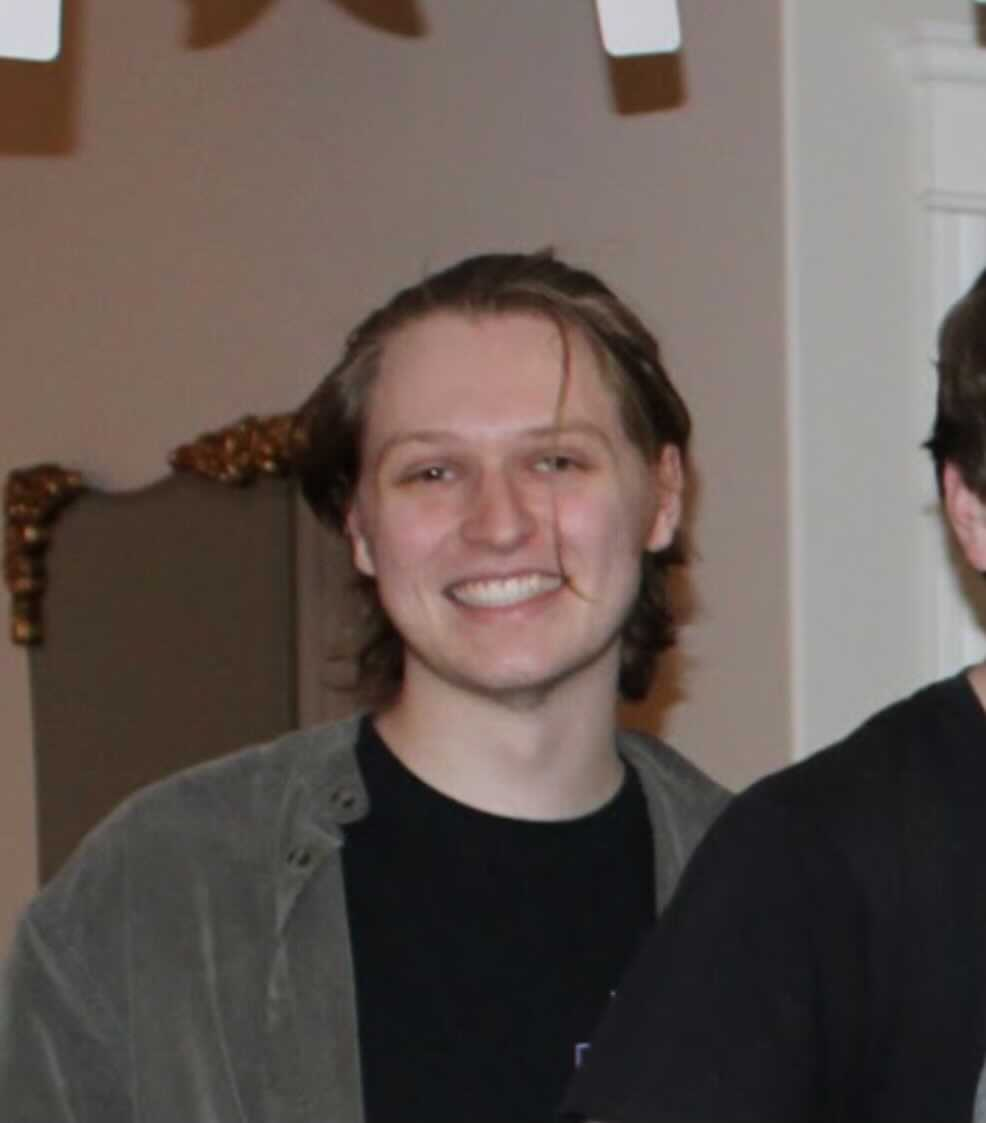
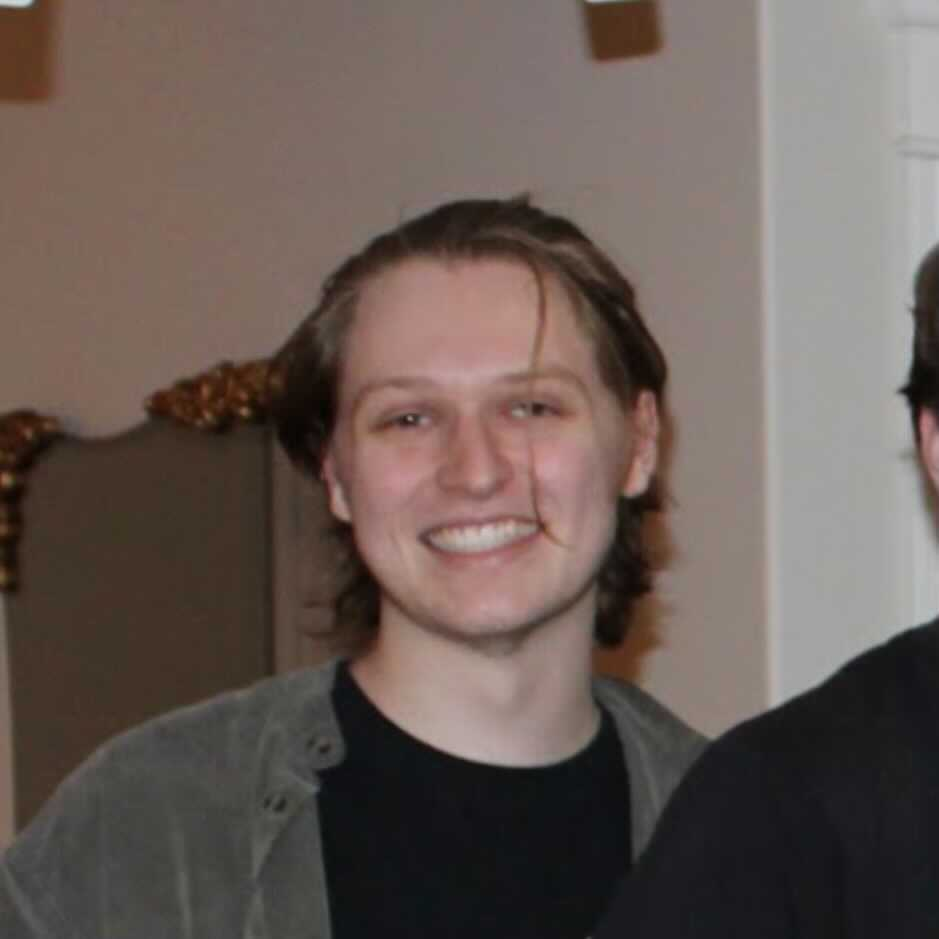
added images and started media queries

diff --git a/styles/styles.css b/styles/styles.css
@@ -282,7 +282,10 @@ header {
   -webkit-box-align: center;
       -ms-flex-align: center;
           align-items: center;
-  padding-top: 275px;
+  -webkit-box-pack: center;
+      -ms-flex-pack: center;
+          justify-content: center;
+  padding-top: 125px;
   margin: 0;
 }
 .title-content .title-text h1 {
@@ -293,6 +296,10 @@ header {
 .title-content .title-text p {
   margin: 0;
   font-size: 1.8rem;
+}
+.title-content .title-img img {
+  width: 400px;
+  margin: 0;
 }
 
 html {
@@ -334,6 +341,11 @@ a {
   font-family: "Nunito", sans-serif;
   font-size: 4rem;
   margin-bottom: 0;
+}
+.about-container .about-img img {
+  border-radius: 50%;
+  width: 200px;
+  margin-top: 55px;
 }
 
 .skills-section {
@@ -515,7 +527,7 @@ a {
   border: none;
   margin-top: 20px;
   padding: 10px 40px 10px 40px;
-  width: 20%;
+  width: 160px;
   border: 2px solid #A5AE9E;
 }
 .contact-container .contact-forms button:hover {
@@ -535,4 +547,10 @@ footer p {
   color: white;
   font-weight: bold;
   text-transform: uppercase;
+}
+
+@media (max-width: 1168px) {
+  .projects-buttons {
+    font-size: 18px;
+  }
 }

diff --git a/index.html b/index.html
@@ -33,7 +33,7 @@
           <p>front end web developer</p>
         </div><!-- end of title text -->
         <div class="title-img">
-          <img src="" alt="picture of me i guess?">
+          <img src="./assets/gangstas-christmas(1).png" alt="picture of me i guess?">
         </div><!-- end of title img -->
       </div><!-- end of title content -->
     </div><!-- end of wrapper -->
@@ -47,7 +47,7 @@
       <div class="wrapper">
         <div class="about-container">
           <div class="about-img">
-            <img src="" alt="headshot??">
+            <img src="./assets/pp.jpg" alt="headshot??">
           </div> <!-- end of about img -->
           <div class="about-text">
             <h2>about me</h2>
@@ -187,12 +187,14 @@
       </div><!-- end of wrapper -->
     </section><!-- end of contact section -->
 
-    <!-- Footer -->
-
-    <footer>
-      <p>Built in 2022 by Tyler George</p>
-    </footer>
 
   </main>
+
+  <!-- Footer -->
+  <footer>
+    <p>Built in 2022 by Tyler George</p>
+  </footer>
+
+  <script src="./app.js"></script>
 </body>
 </html>

diff --git a/app.js b/app.js
@@ -1,14 +1,20 @@
-
-const portfolio = {}
-
-
-
+// create namespace and init
+// create a function that uses the doc to select the submit button
+// create an event listener that appends a blank string over my input forms once clicked
 
 
-portfolio.formClear = () => {
 
+
+// This function that resets the field forms is from https://help.formspree.io/hc/en-us/articles/1500009404742-How-to-clear-a-form-after-submission and modified for my site.
+
+
+const portfolio = {};
+
+// WIP DOES NOT WORK HEHE
+portfolio.clearForm = () => {
+  const contactForm = document.querySelector('#contactForm');
+  window.onbeforeunload = () => {
+    contactForm.reset();
+  }
 }
 
-
-
-portfolio.init()

diff --git a/styles/sass/partials/_header.scss b/styles/sass/partials/_header.scss
@@ -40,7 +40,6 @@ header {
       &:hover {
         border: 2px solid white;
         background-color: variables.$main-colour;
-        
       }
     }
   }
@@ -49,7 +48,8 @@ header {
 .title-content {
   display: flex;
   align-items: center;
-  padding-top: 275px;
+  justify-content: center;
+  padding-top: 125px;
   margin: 0;
   .title-text {
     h1 {
@@ -60,6 +60,13 @@ header {
     p {
       margin: 0;
       font-size: 1.8rem;
+    }
+    
+  }
+  .title-img {
+    img { 
+      width: 400px;
+      margin: 0;
     }
   }
 }

diff --git a/styles/sass/partials/_contact.scss b/styles/sass/partials/_contact.scss
@@ -58,7 +58,7 @@
       border: none;
       margin-top: 20px;
       padding: 10px 40px 10px 40px;
-      width: 20%;
+      width: 160px;
       border: 2px solid variables.$form-background;
       &:hover {
         border: 2px solid white;

diff --git a/styles/sass/partials/_about.scss b/styles/sass/partials/_about.scss
@@ -18,4 +18,11 @@
       margin-bottom: 0;
     }
   }
+  .about-img {
+    img {
+      border-radius: 50%;
+      width: 200px;
+      margin-top: 55px;
+    }
+  }
 }

diff --git a/styles/sass/styles.scss b/styles/sass/styles.scss
@@ -7,3 +7,4 @@
 @use './partials/projects';
 @use './partials/contact';
 @use './partials/footer';
+@use './partials/media-queries';

diff --git a/styles/sass/partials/_media-queries.scss b/styles/sass/partials/_media-queries.scss
@@ -1,0 +1,6 @@
+@media(max-width: 1168px) {
+  .projects-buttons {
+    font-size: 18px;
+  }
+
+}
